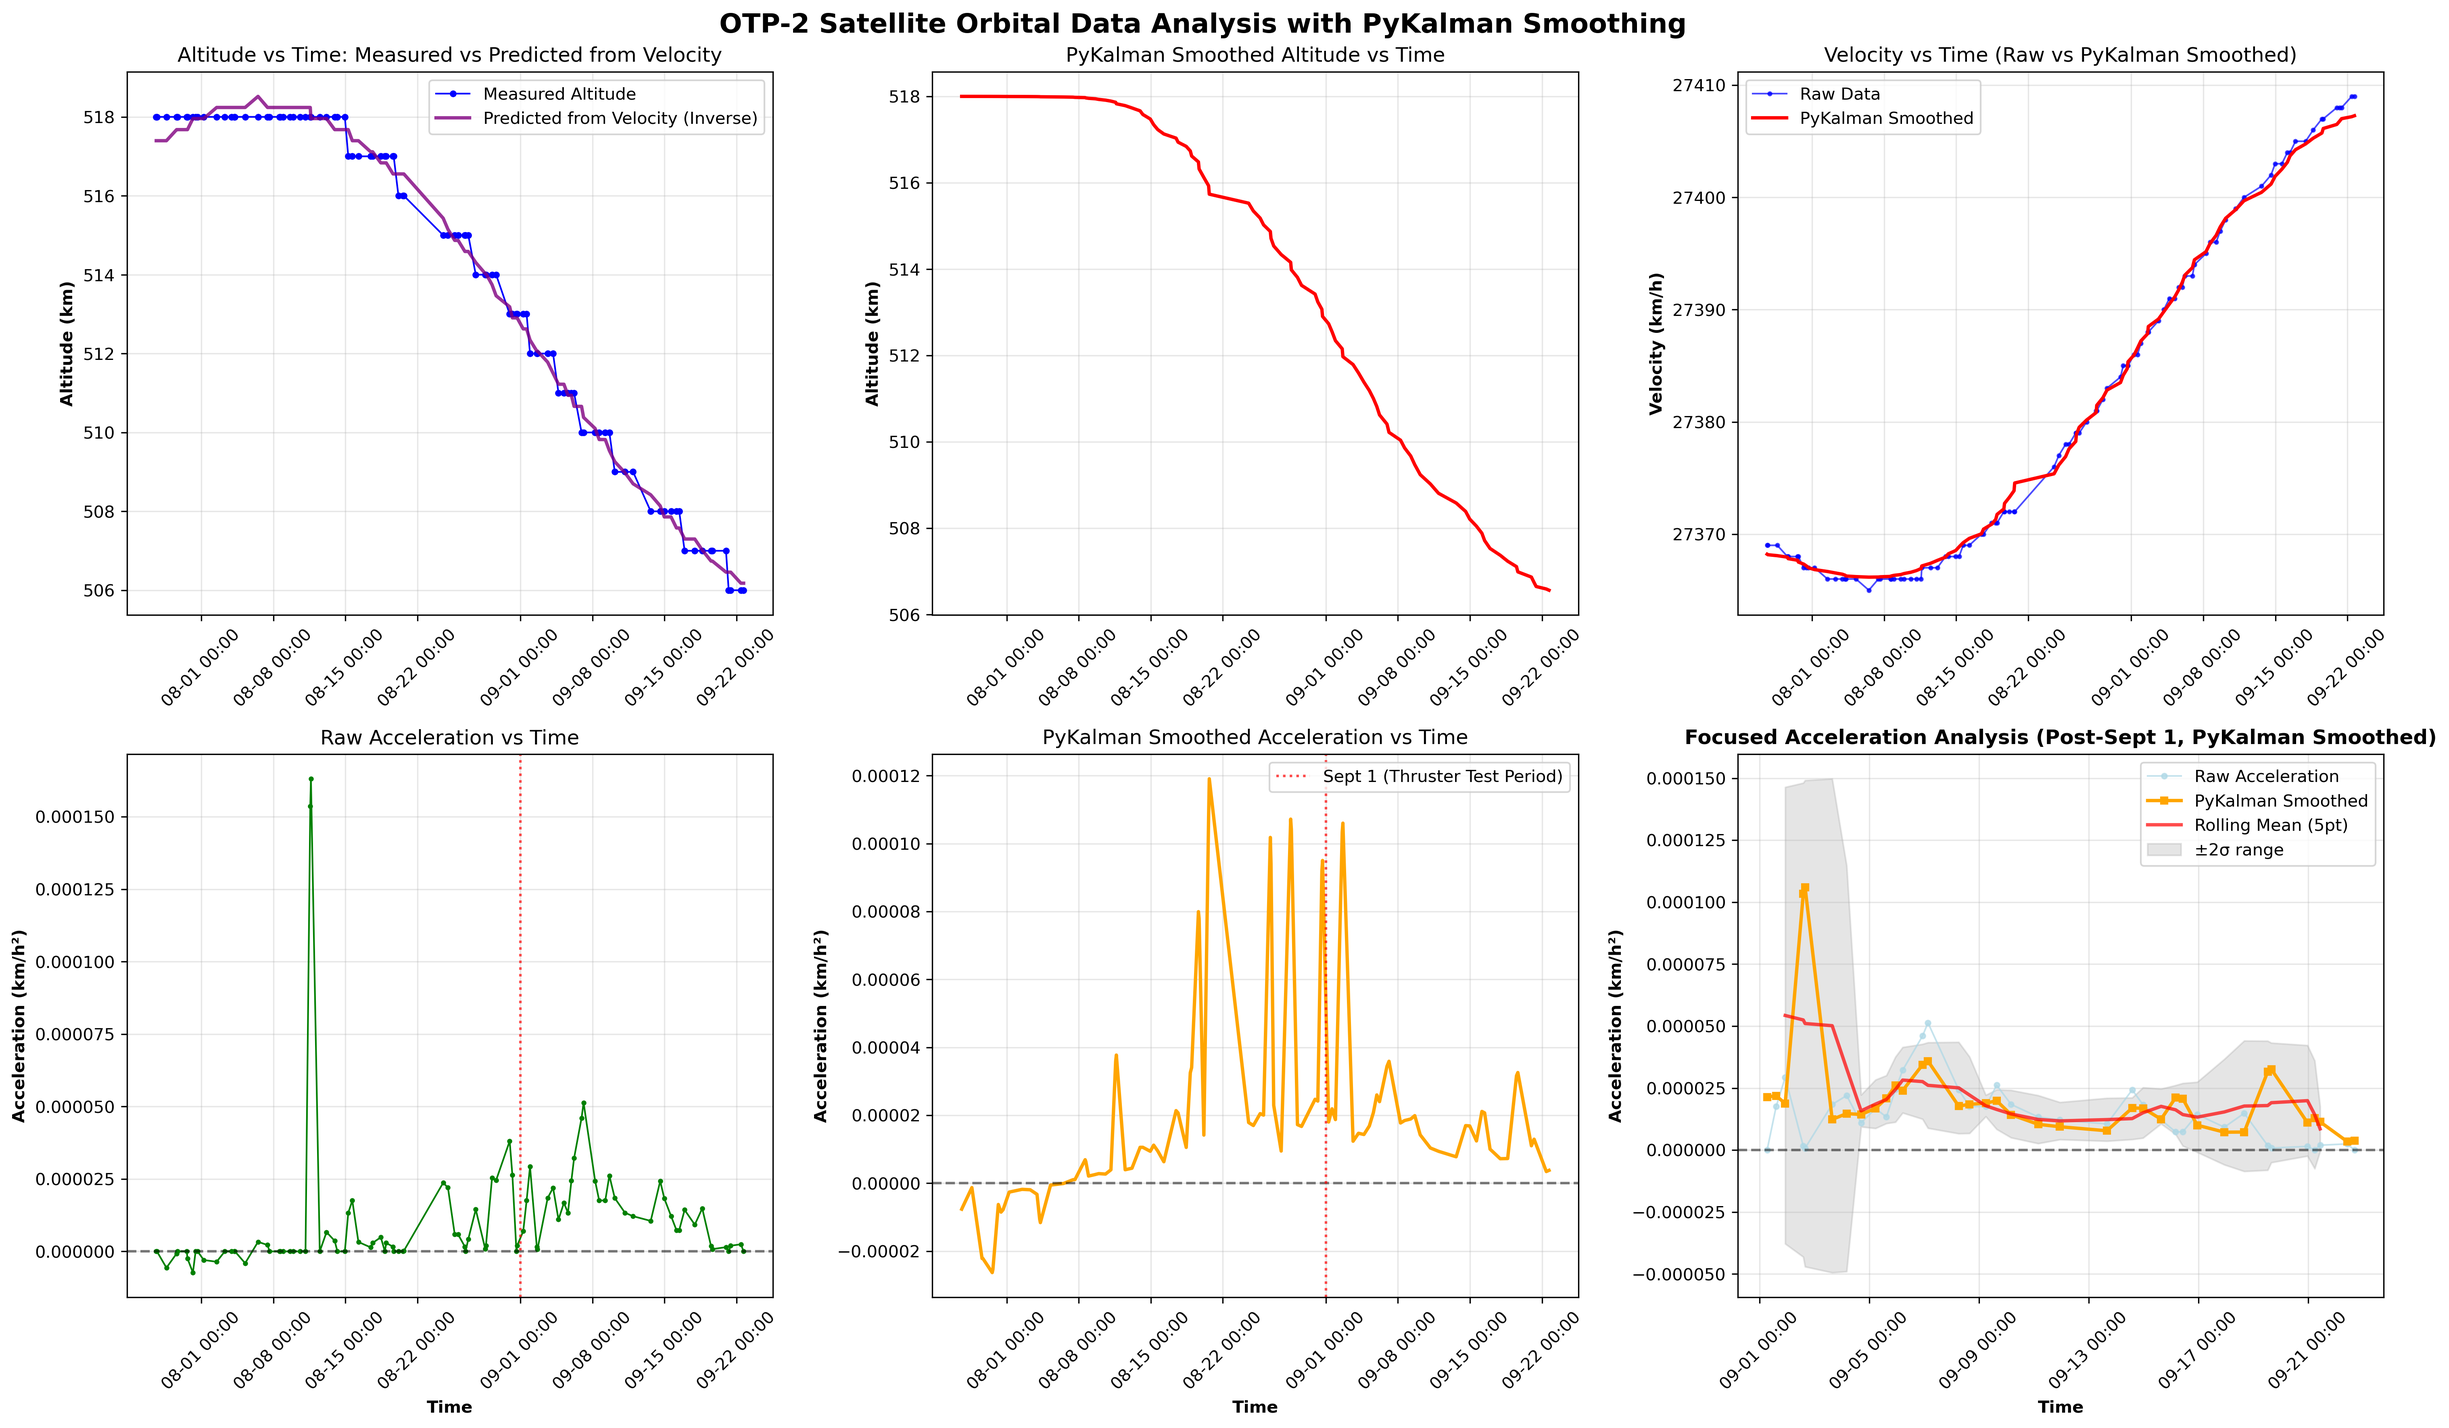
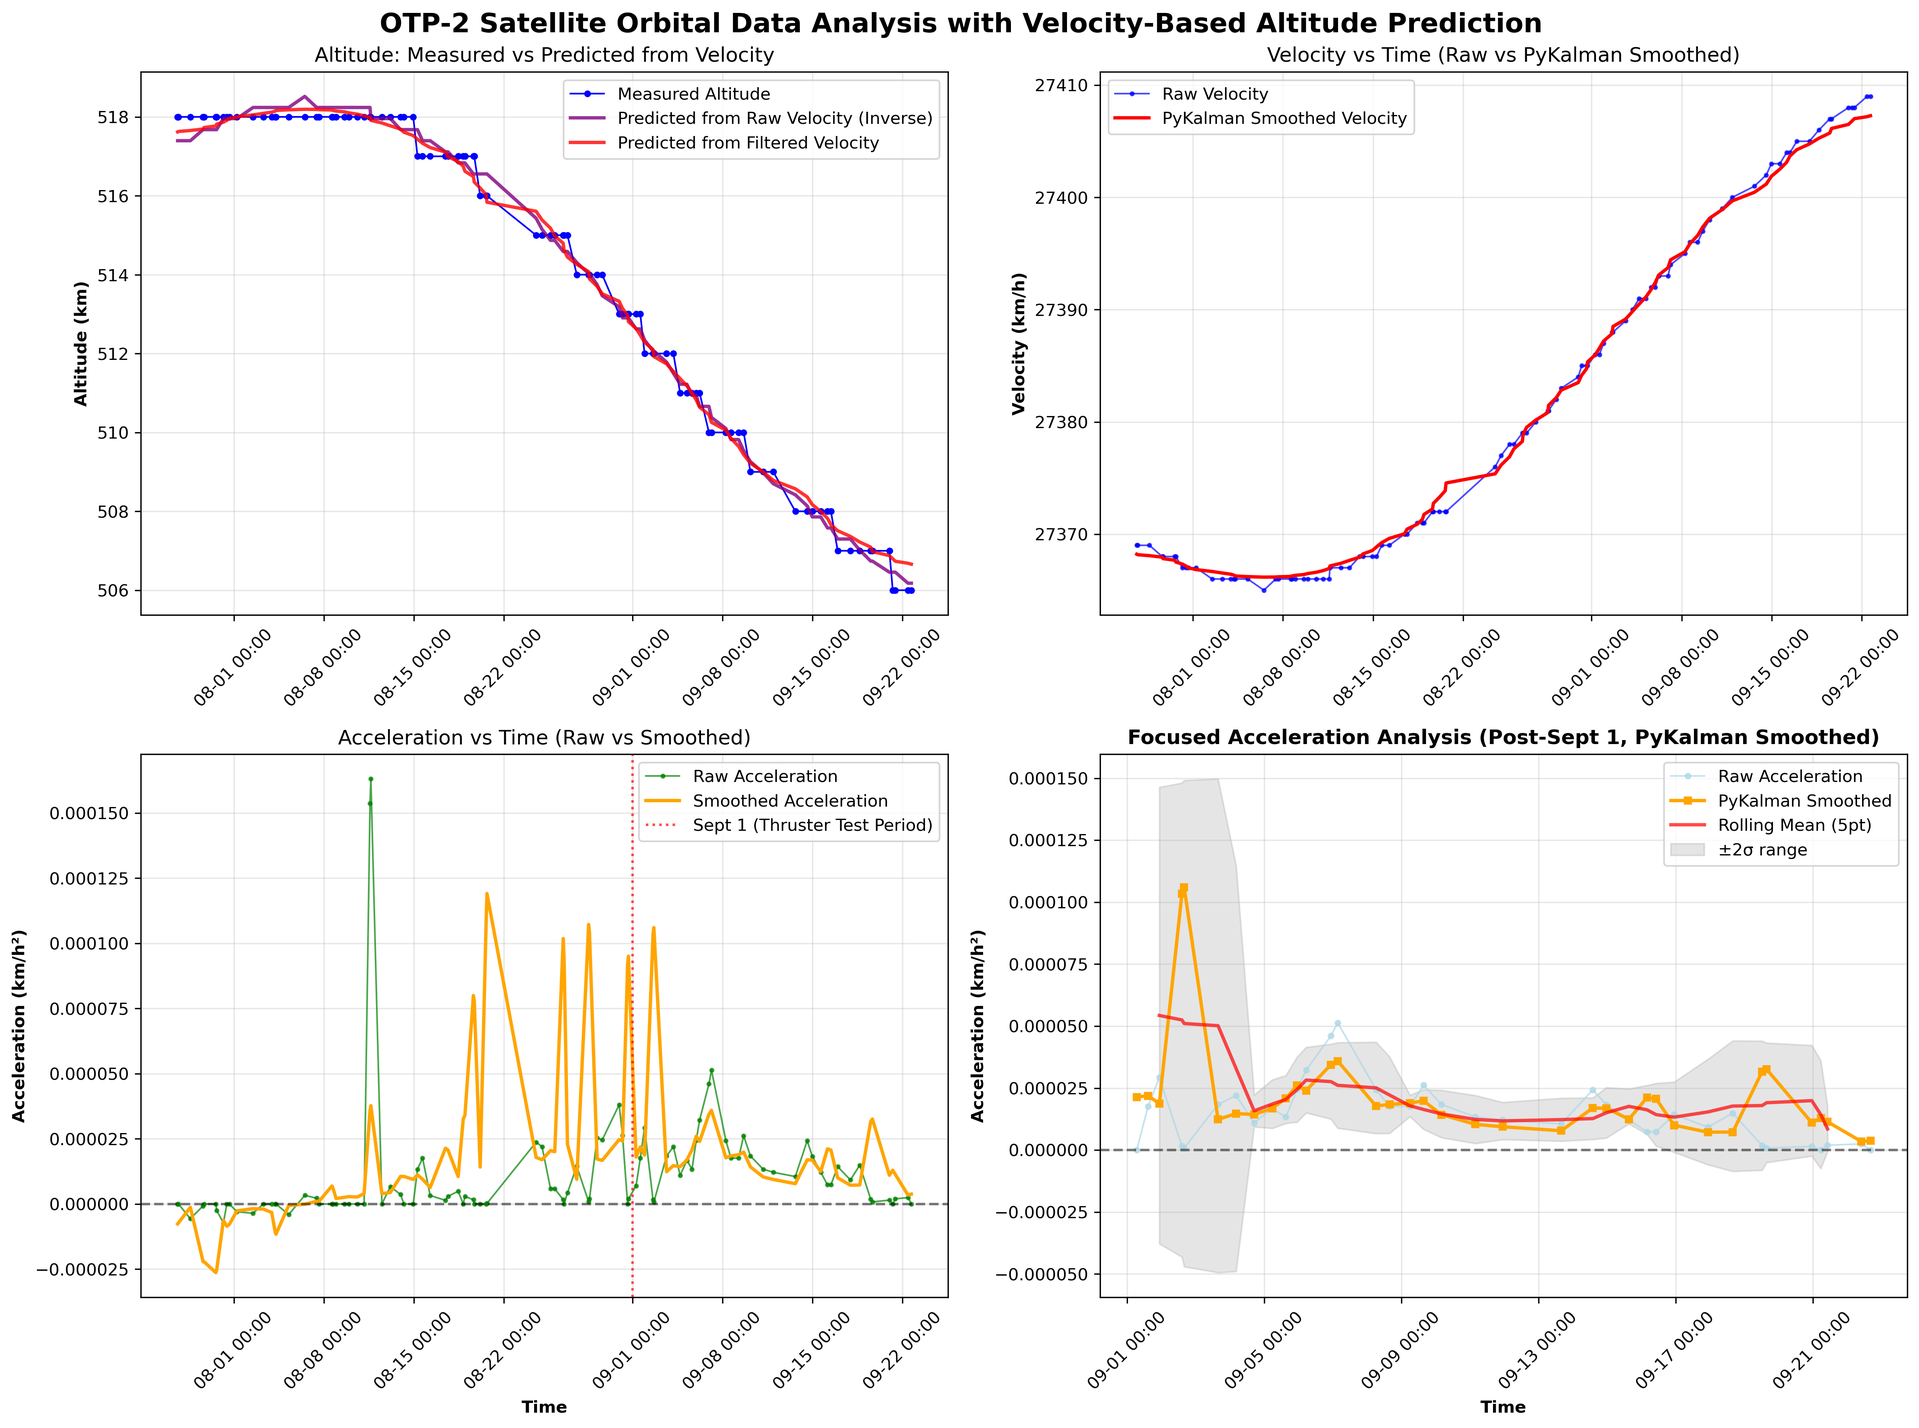
Rudimentary calcuation of altitude from velocity

diff --git a/plot_satellite_data.py b/plot_satellite_data.py
@@ -25,33 +25,31 @@ def calculate_velocity_change_rate(timestamps, velocities):
 
     return acceleration
 
-def pykalman_filter(timestamps, altitudes, velocities):
+def pykalman_filter_velocity(velocities):
+    """PyKalman smoothing for velocity data only.
+
+    Since altitude can be reliably predicted from velocity, we only need to filter
+    velocity measurements to reduce noise.
+
+    The velocity of the craft is impacted by various distinct accelerations that overlap, persist
+    and vary, over various periods of time.  These are, primarily:
+    
+      - atmospheric drag; roughly constant, proportional to altitude
+      - solar wind; varies over days
+      - propulsion
+        - short-term, high delta-v, usually seconds to minutes in duration.
+        - long-term, low delta-v (eg. Quantum Drive), usually hours to days in duration
+
+    Our job is to model these, and fit to a noisy ground-based velocity measurement.  Due to the low
+    resolution of our measurements, we probably can't distinguish between high and low delta-v
+    propulsion.  However, we're assuming this craft lacks orbital maintenance thrusters, so any
+    discontinuous acceleration detected as assumed to be due to the Quantum Drive.
+
     """
-    Simple smoothing using pykalman library for orbital data.
+    if len(velocities) < 2:
+        return np.array(velocities)
 
-    Uses independent filtering for altitude and velocity since orbital mechanics
-    relationships are complex and our simple constant velocity model doesn't apply well.
-    """
-    if len(timestamps) < 2:
-        return np.array(altitudes), np.array(velocities)
-
-    # Filter altitude independently
-    altitude_observations = np.array(altitudes).reshape(-1, 1)
-
-    # Simple random walk model for altitude (no velocity coupling)
-    kf_alt = KalmanFilter(
-        transition_matrices=np.array([[1.0]]),      # altitude[t] = altitude[t-1]
-        observation_matrices=np.array([[1.0]]),     # we observe altitude directly
-        initial_state_mean=np.array([altitudes[0]]),
-        initial_state_covariance=np.array([[10.0]]),
-        transition_covariance=np.array([[0.1]]),    # small process noise
-        observation_covariance=np.array([[2.0]])    # measurement noise
-    )
-
-    alt_states, _ = kf_alt.smooth(altitude_observations)
-    filtered_altitudes = alt_states.flatten()
-
-    # Filter velocity independently
+    # Filter velocity using PyKalman
     velocity_observations = np.array(velocities).reshape(-1, 1)
 
     kf_vel = KalmanFilter(
@@ -66,7 +64,7 @@ def pykalman_filter(timestamps, altitudes, velocities):
     vel_states, _ = kf_vel.smooth(velocity_observations)
     filtered_velocities = vel_states.flatten()
 
-    return filtered_altitudes, filtered_velocities
+    return filtered_velocities
 
 def fit_velocity_altitude_relationship(velocities, altitudes):
     """
@@ -226,24 +224,17 @@ def main():
     altitude_prediction_rmse = np.sqrt(np.mean((df['altitude'] - df['predicted_altitude'])**2))
     print(f"\nAltitude prediction accuracy: {altitude_prediction_rmse:.3f} km RMSE")
 
-    # Apply Kalman filtering to smooth the data
-    print("Applying PyKalman smoothing (forward-backward pass)...")
-    filtered_alt, filtered_vel = pykalman_filter(
-        df['datetime'].tolist(),
-        df['altitude'].tolist(),
-        df['velocity'].tolist()
-    )
-    df['filtered_altitude'] = filtered_alt
-    df['filtered_velocity'] = filtered_vel
+    # Apply PyKalman smoothing to velocity only (altitude is predicted from velocity)
+    print("Applying PyKalman smoothing to velocity (forward-backward pass)...")
+    df['filtered_velocity'] = pykalman_filter_velocity(df['velocity'].tolist())
+
+    # Predict altitude from filtered velocity as well
+    df['predicted_altitude_from_filtered_vel'] = predict_altitude_func(df['filtered_velocity'])
 
     # Calculate noise reduction metrics
-    altitude_noise_reduction = (df['altitude'].std() - df['filtered_altitude'].std()) / df['altitude'].std() * 100
     velocity_noise_reduction = (df['velocity'].std() - df['filtered_velocity'].std()) / df['velocity'].std() * 100
 
-    print(f"Kalman smoothing results:")
-    print(f"  Raw altitude std: {df['altitude'].std():.3f} km")
-    print(f"  Filtered altitude std: {df['filtered_altitude'].std():.3f} km")
-    print(f"  Altitude noise reduction: {altitude_noise_reduction:.1f}%")
+    print(f"Velocity smoothing results:")
     print(f"  Raw velocity std: {df['velocity'].std():.3f} km/h")
     print(f"  Filtered velocity std: {df['filtered_velocity'].std():.3f} km/h")
     print(f"  Velocity noise reduction: {velocity_noise_reduction:.1f}%")
@@ -271,75 +262,61 @@ def main():
         post_sept1_filtered_acceleration = np.array([])
         print("No data found after September 1st")
 
-    # Create the plot with 6 subplots (2x3 layout for better comparison)
-    fig, ((ax1, ax2, ax3), (ax4, ax5, ax6)) = plt.subplots(2, 3, figsize=(20, 12))
-    fig.suptitle('OTP-2 Satellite Orbital Data Analysis with PyKalman Smoothing', fontsize=16, fontweight='bold')
+    # Create the plot with 4 subplots (2x2 layout)
+    fig, ((ax1, ax2), (ax3, ax4)) = plt.subplots(2, 2, figsize=(16, 12))
+    fig.suptitle('OTP-2 Satellite Orbital Data Analysis with Velocity-Based Altitude Prediction', fontsize=16, fontweight='bold')
 
-    # Plot 1: Raw Altitude with Velocity-based Prediction
+    # Plot 1: Altitude - Measured vs Predicted from Velocity
     ax1.plot(df['datetime'], df['altitude'], 'b-', linewidth=1, marker='o', markersize=3,
              label='Measured Altitude')
     ax1.plot(df['datetime'], df['predicted_altitude'], 'purple', linewidth=2, alpha=0.8,
-             label=f'Predicted from Velocity ({best_model_name})')
+             label=f'Predicted from Raw Velocity ({best_model_name})')
+    ax1.plot(df['datetime'], df['predicted_altitude_from_filtered_vel'], 'red', linewidth=2, alpha=0.8,
+             label='Predicted from Filtered Velocity')
     ax1.set_ylabel('Altitude (km)', fontweight='bold')
-    ax1.set_title('Altitude vs Time: Measured vs Predicted from Velocity')
+    ax1.set_title('Altitude: Measured vs Predicted from Velocity')
     ax1.grid(True, alpha=0.3)
     ax1.xaxis.set_major_formatter(mdates.DateFormatter('%m-%d %H:%M'))
     ax1.tick_params(axis='x', rotation=45)
     ax1.legend()
 
-    # Plot 2: PyKalman Smoothed Altitude
-    ax2.plot(df['datetime'], df['filtered_altitude'], 'r-', linewidth=2)
-    ax2.set_ylabel('Altitude (km)', fontweight='bold')
-    ax2.set_title('PyKalman Smoothed Altitude vs Time')
+    # Plot 2: Velocity - Raw vs PyKalman Smoothed
+    ax2.plot(df['datetime'], df['velocity'], 'b-', linewidth=1, marker='o', markersize=2,
+             alpha=0.7, label='Raw Velocity')
+    ax2.plot(df['datetime'], df['filtered_velocity'], 'r-', linewidth=2,
+             label='PyKalman Smoothed Velocity')
+    ax2.set_ylabel('Velocity (km/h)', fontweight='bold')
+    ax2.set_title('Velocity vs Time (Raw vs PyKalman Smoothed)')
     ax2.grid(True, alpha=0.3)
     ax2.xaxis.set_major_formatter(mdates.DateFormatter('%m-%d %H:%M'))
     ax2.tick_params(axis='x', rotation=45)
+    ax2.legend()
 
-    # Plot 3: Raw vs PyKalman Smoothed Velocity
-    ax3.plot(df['datetime'], df['velocity'], 'b-', linewidth=1, marker='o', markersize=2,
-             alpha=0.7, label='Raw Data')
-    ax3.plot(df['datetime'], df['filtered_velocity'], 'r-', linewidth=2,
-             label='PyKalman Smoothed')
-    ax3.set_ylabel('Velocity (km/h)', fontweight='bold')
-    ax3.set_title('Velocity vs Time (Raw vs PyKalman Smoothed)')
-    ax3.grid(True, alpha=0.3)
-    ax3.xaxis.set_major_formatter(mdates.DateFormatter('%m-%d %H:%M'))
-    ax3.tick_params(axis='x', rotation=45)
-    ax3.legend()
-
-    # Plot 4: Raw Acceleration
-    if len(acceleration) > 0:
-        ax4.plot(df['datetime'], acceleration, 'g-', linewidth=1, marker='o', markersize=2)
-        ax4.set_ylabel('Acceleration (km/h²)', fontweight='bold')
-        ax4.set_title('Raw Acceleration vs Time')
-        ax4.grid(True, alpha=0.3)
-        ax4.xaxis.set_major_formatter(mdates.DateFormatter('%m-%d %H:%M'))
-        ax4.tick_params(axis='x', rotation=45)
-        ax4.axhline(y=0, color='k', linestyle='--', alpha=0.5)
-        ax4.axvline(x=sept_1_2025, color='r', linestyle=':', alpha=0.7)
-
-    # Plot 5: PyKalman Smoothed Acceleration
-    if len(filtered_acceleration) > 0:
-        ax5.plot(df['datetime'], filtered_acceleration, 'orange', linewidth=2)
-        ax5.set_ylabel('Acceleration (km/h²)', fontweight='bold')
-        ax5.set_title('PyKalman Smoothed Acceleration vs Time')
-        ax5.grid(True, alpha=0.3)
-        ax5.xaxis.set_major_formatter(mdates.DateFormatter('%m-%d %H:%M'))
-        ax5.tick_params(axis='x', rotation=45)
-        ax5.axhline(y=0, color='k', linestyle='--', alpha=0.5)
-        ax5.axvline(x=sept_1_2025, color='r', linestyle=':', alpha=0.7,
+    # Plot 3: Acceleration Comparison
+    if len(acceleration) > 0 and len(filtered_acceleration) > 0:
+        ax3.plot(df['datetime'], acceleration, 'g-', linewidth=1, marker='o', markersize=2,
+                alpha=0.7, label='Raw Acceleration')
+        ax3.plot(df['datetime'], filtered_acceleration, 'orange', linewidth=2,
+                label='Smoothed Acceleration')
+        ax3.set_ylabel('Acceleration (km/h²)', fontweight='bold')
+        ax3.set_title('Acceleration vs Time (Raw vs Smoothed)')
+        ax3.grid(True, alpha=0.3)
+        ax3.xaxis.set_major_formatter(mdates.DateFormatter('%m-%d %H:%M'))
+        ax3.tick_params(axis='x', rotation=45)
+        ax3.axhline(y=0, color='k', linestyle='--', alpha=0.5)
+        ax3.axvline(x=sept_1_2025, color='r', linestyle=':', alpha=0.7,
                    label='Sept 1 (Thruster Test Period)')
-        ax5.legend()
+        ax3.legend()
 
-    # Plot 6: Focused acceleration analysis (post-September 1st)
+    # Plot 4: Focused acceleration analysis (post-September 1st)
     if len(df_post_sept1) > 0 and len(post_sept1_acceleration) > 0:
         # Plot both raw and filtered acceleration
-        ax6.plot(df_post_sept1['datetime'], post_sept1_acceleration,
+        ax4.plot(df_post_sept1['datetime'], post_sept1_acceleration,
                 'lightblue', linewidth=1, marker='o', markersize=3, alpha=0.7,
                 label='Raw Acceleration')
 
         if len(post_sept1_filtered_acceleration) > 0:
-            ax6.plot(df_post_sept1['datetime'], post_sept1_filtered_acceleration,
+            ax4.plot(df_post_sept1['datetime'], post_sept1_filtered_acceleration,
                     'orange', linewidth=2, marker='s', markersize=4,
                     label='PyKalman Smoothed')
 
@@ -351,7 +328,7 @@ def main():
             rolling_std = pd.Series(analysis_data).rolling(window=window_size, center=True).std()
 
             # Plot rolling mean
-            ax6.plot(df_post_sept1['datetime'], rolling_mean,
+            ax4.plot(df_post_sept1['datetime'], rolling_mean,
                     'red', linewidth=2, alpha=0.7, label=f'Rolling Mean ({window_size}pt)')
 
             # Highlight potential anomalies (>2 standard deviations from rolling mean)
@@ -360,7 +337,7 @@ def main():
             lower_bound = rolling_mean - anomaly_threshold * rolling_std
 
             # Fill the normal range
-            ax6.fill_between(df_post_sept1['datetime'], lower_bound, upper_bound,
+            ax4.fill_between(df_post_sept1['datetime'], lower_bound, upper_bound,
                            alpha=0.2, color='gray', label=f'±{anomaly_threshold}σ range')
 
             # Mark potential thruster events (acceleration spikes)
@@ -368,17 +345,17 @@ def main():
                 df_post_sept1['datetime'], analysis_data, rolling_mean, rolling_std)):
                 if not pd.isna(mean_val) and not pd.isna(std_val) and std_val > 0:
                     if abs(acc - mean_val) > anomaly_threshold * std_val:
-                        ax6.scatter(dt, acc, color='red', s=100, marker='*',
+                        ax4.scatter(dt, acc, color='red', s=100, marker='*',
                                   zorder=5, alpha=0.8)
 
-        ax6.set_ylabel('Acceleration (km/h²)', fontweight='bold')
-        ax6.set_title('Focused Acceleration Analysis (Post-Sept 1, PyKalman Smoothed)',
+        ax4.set_ylabel('Acceleration (km/h²)', fontweight='bold')
+        ax4.set_title('Focused Acceleration Analysis (Post-Sept 1, PyKalman Smoothed)',
                      fontweight='bold')
-        ax6.grid(True, alpha=0.3)
-        ax6.xaxis.set_major_formatter(mdates.DateFormatter('%m-%d %H:%M'))
-        ax6.tick_params(axis='x', rotation=45)
-        ax6.axhline(y=0, color='k', linestyle='--', alpha=0.5)
-        ax6.legend()
+        ax4.grid(True, alpha=0.3)
+        ax4.xaxis.set_major_formatter(mdates.DateFormatter('%m-%d %H:%M'))
+        ax4.tick_params(axis='x', rotation=45)
+        ax4.axhline(y=0, color='k', linestyle='--', alpha=0.5)
+        ax4.legend()
 
         # Print potential thruster events
         if window_size >= 3:
@@ -405,14 +382,13 @@ def main():
             else:
                 print("\nNo significant acceleration anomalies detected")
     else:
-        ax6.text(0.5, 0.5, 'No data available\nfor post-Sept 1 analysis',
-                ha='center', va='center', transform=ax6.transAxes, fontsize=12)
-        ax6.set_title('Focused Acceleration Analysis (Post-Sept 1)')
+        ax4.text(0.5, 0.5, 'No data available\nfor post-Sept 1 analysis',
+                ha='center', va='center', transform=ax4.transAxes, fontsize=12)
+        ax4.set_title('Focused Acceleration Analysis (Post-Sept 1)')
 
     # Set x-axis labels for bottom row
+    ax3.set_xlabel('Time', fontweight='bold')
     ax4.set_xlabel('Time', fontweight='bold')
-    ax5.set_xlabel('Time', fontweight='bold')
-    ax6.set_xlabel('Time', fontweight='bold')
 
     # Adjust layout to prevent overlap
     plt.tight_layout()
@@ -434,18 +410,21 @@ def main():
         print(f"  Average acceleration: {acceleration.mean():.8f} km/h²")
         print(f"  Acceleration std deviation: {acceleration.std():.8f} km/h²")
 
-    print(f"\nPyKalman Smoothed Data:")
-    print(f"  Altitude range: {df['filtered_altitude'].min():.1f} - {df['filtered_altitude'].max():.1f} km")
+    print(f"\nPyKalman Smoothed Velocity Data:")
     print(f"  Velocity range: {df['filtered_velocity'].min():.1f} - {df['filtered_velocity'].max():.1f} km/h")
     if len(filtered_acceleration) > 0:
         print(f"  Acceleration range: {filtered_acceleration.min():.8f} - {filtered_acceleration.max():.8f} km/h²")
         print(f"  Average acceleration: {filtered_acceleration.mean():.8f} km/h²")
         print(f"  Acceleration std deviation: {filtered_acceleration.std():.8f} km/h²")
 
+    print(f"\nPredicted Altitude from Filtered Velocity:")
+    print(f"  Altitude range: {df['predicted_altitude_from_filtered_vel'].min():.1f} - {df['predicted_altitude_from_filtered_vel'].max():.1f} km")
+
     # Acceleration noise reduction metrics
     if len(acceleration) > 0 and len(filtered_acceleration) > 0:
         acc_noise_reduction = (acceleration.std() - filtered_acceleration.std()) / acceleration.std() * 100
-        print(f"\nPyKalman Smoothing Performance:")
+        print(f"\nPyKalman Velocity Smoothing Performance:")
+        print(f"  Velocity noise reduction: {velocity_noise_reduction:.1f}%")
         print(f"  Acceleration noise reduction: {acc_noise_reduction:.1f}%")
         print(f"  Forward-backward smoothing provides optimal estimates using complete dataset")
 
